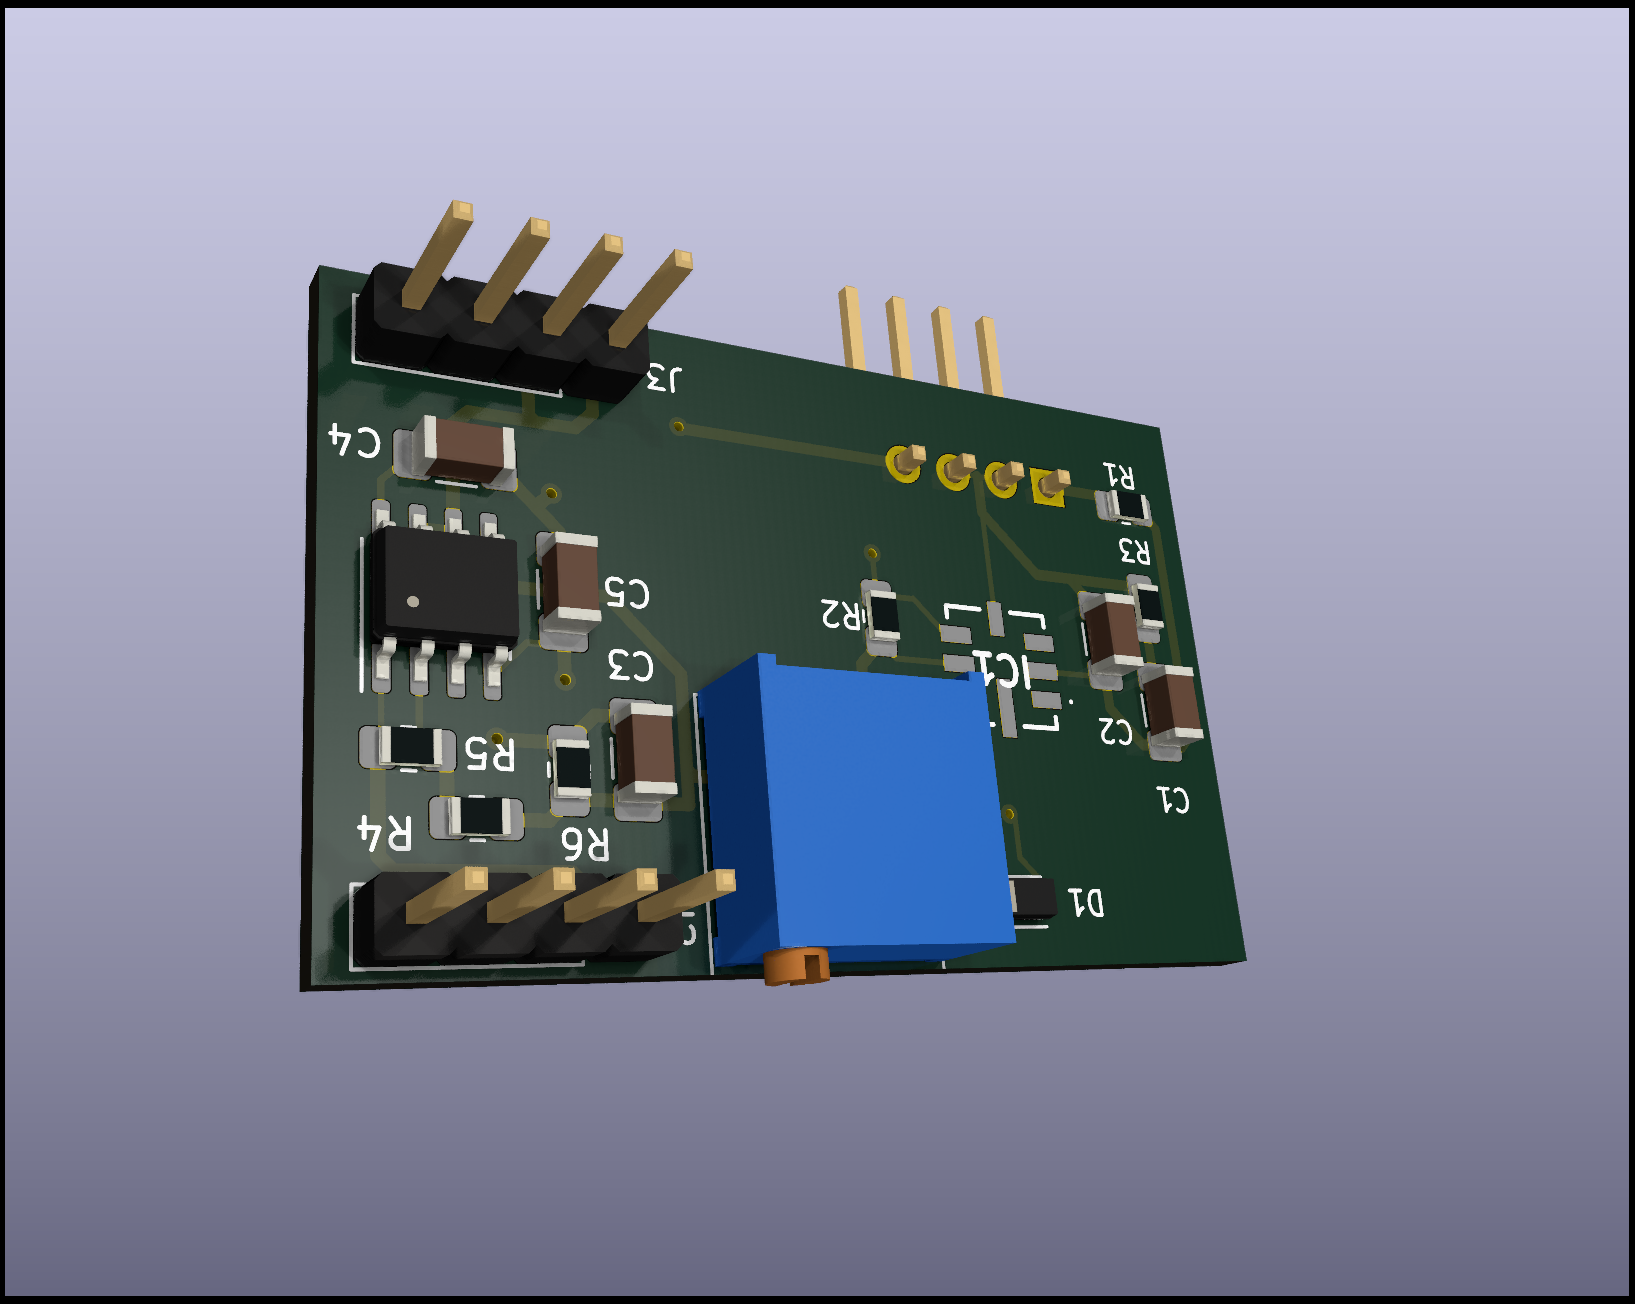
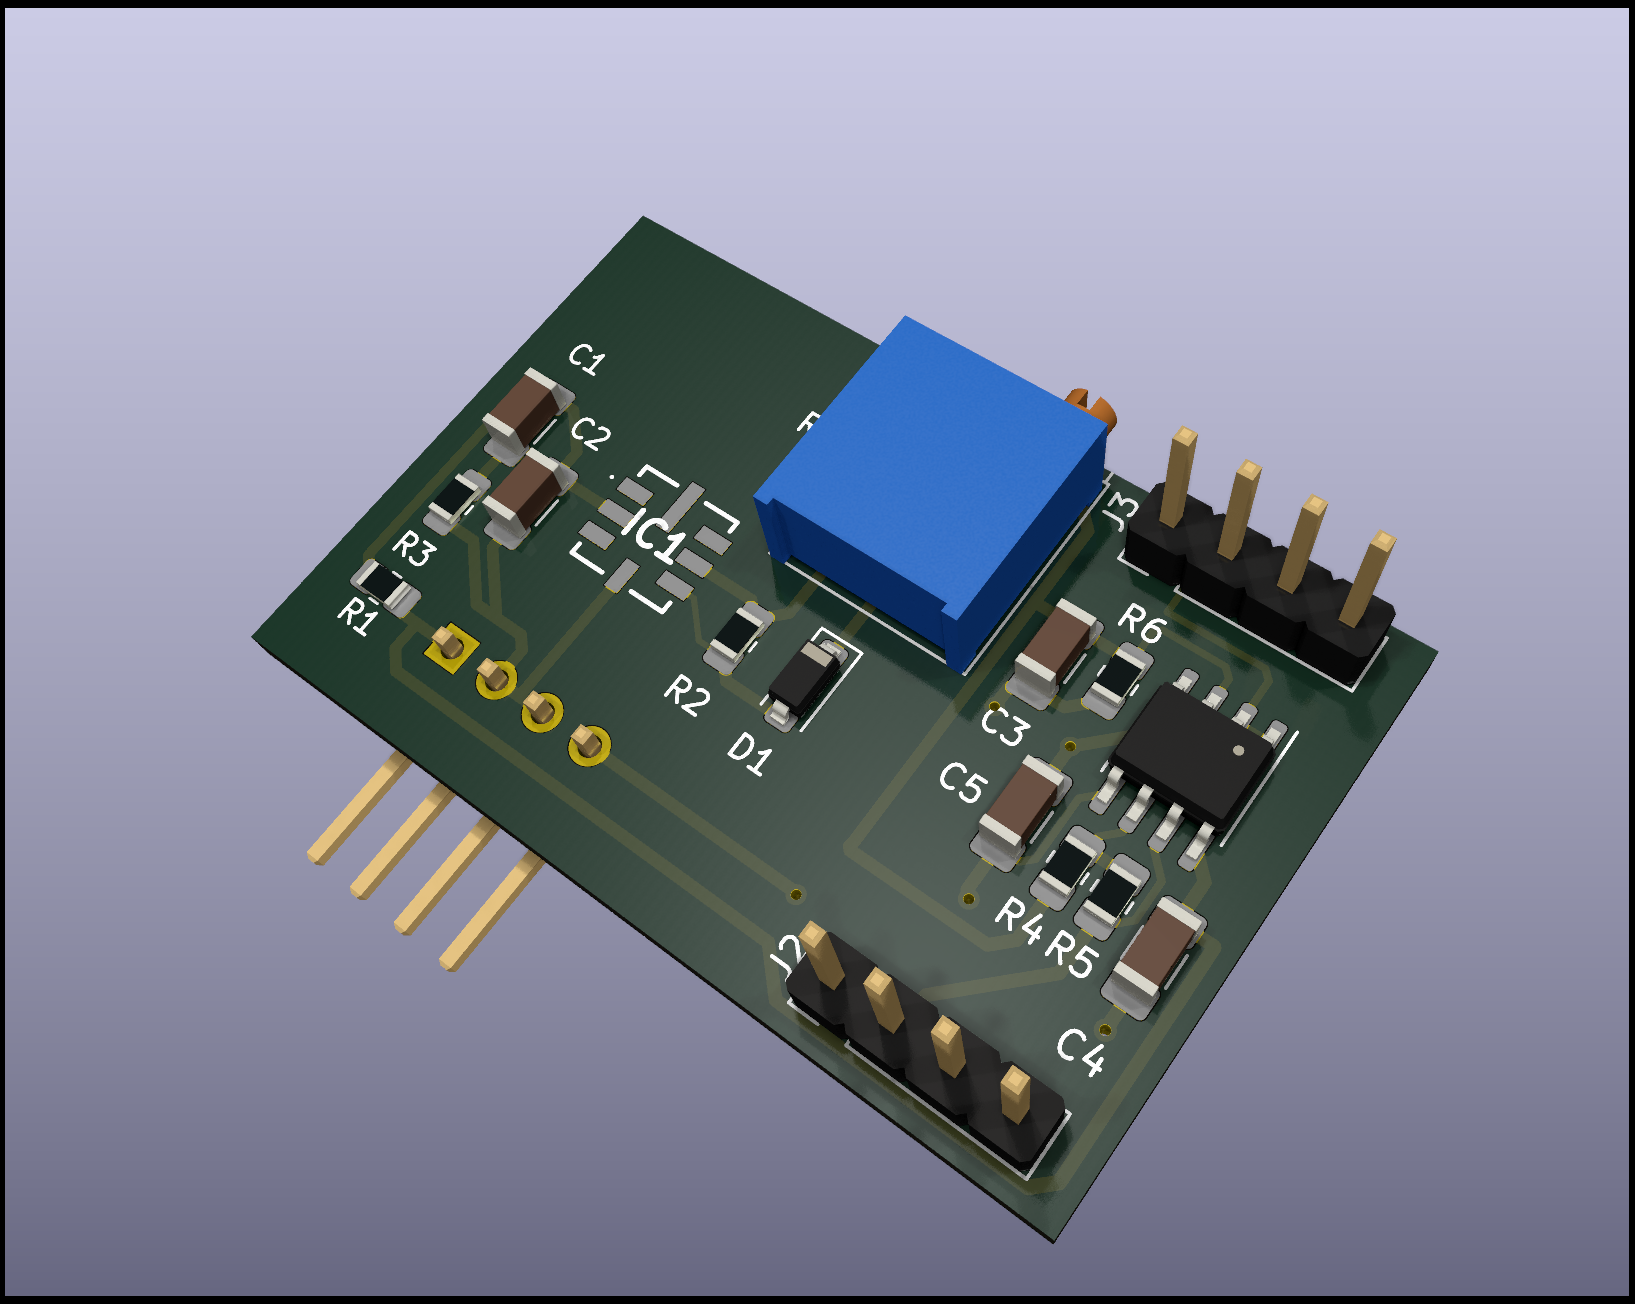
ordered vref lt1236 board

diff --git a/Duophonic/voltage-ref-LT1236.md b/Duophonic/voltage-ref-LT1236.md
@@ -122,6 +122,9 @@ from these points. See Load Transient Response curves
 for details
 (Datasheet, "Capacitive Loading and Transient Response")
 
+Thus, 10k load resistor draws constant 0.5mA from reference
+(assuming drain from the op-amp input currents is negligible in comparison).
+
 Voltage output: pair of 4-pin headers
 
 - +5 +5 0V 0V
@@ -135,12 +138,16 @@ Pin 1 of OPA2186 is on the side with the bevel, and is aligned closest to R5 on 
 
 ![soic-8](./img/soic-8.png)
 
-Input and output caps hve [5R serial resistance](https://www.eevblog.com/forum/metrology/yet-another-basic-10v-reference-tear-my-design-apart!/msg1666097/#msg1666097) to avoid ringing. Electrolytics were better here than ceramics.
+Input cap has [5R serial resistance](https://www.eevblog.com/forum/metrology/yet-another-basic-10v-reference-tear-my-design-apart!/msg1666097/#msg1666097) to avoid ringing. Electrolytics were better here than ceramics.
 
 > In critical applications,
 a 10μF solid tantalum capacitor with several ohms
 in series provides optimum output bypass.
 (Datasheet, "Capacitive Loading and Transient Response")
+
+![Vref](./img/vref-lt1236-board-v.01.png)
+
+2 layer board of 1.57 x 1.03 inches (40.0 x 26.2 mm) ordered 2024-02-10
 
 ![Vref 3D](./img/vref_LT1236-3D.png)
 
